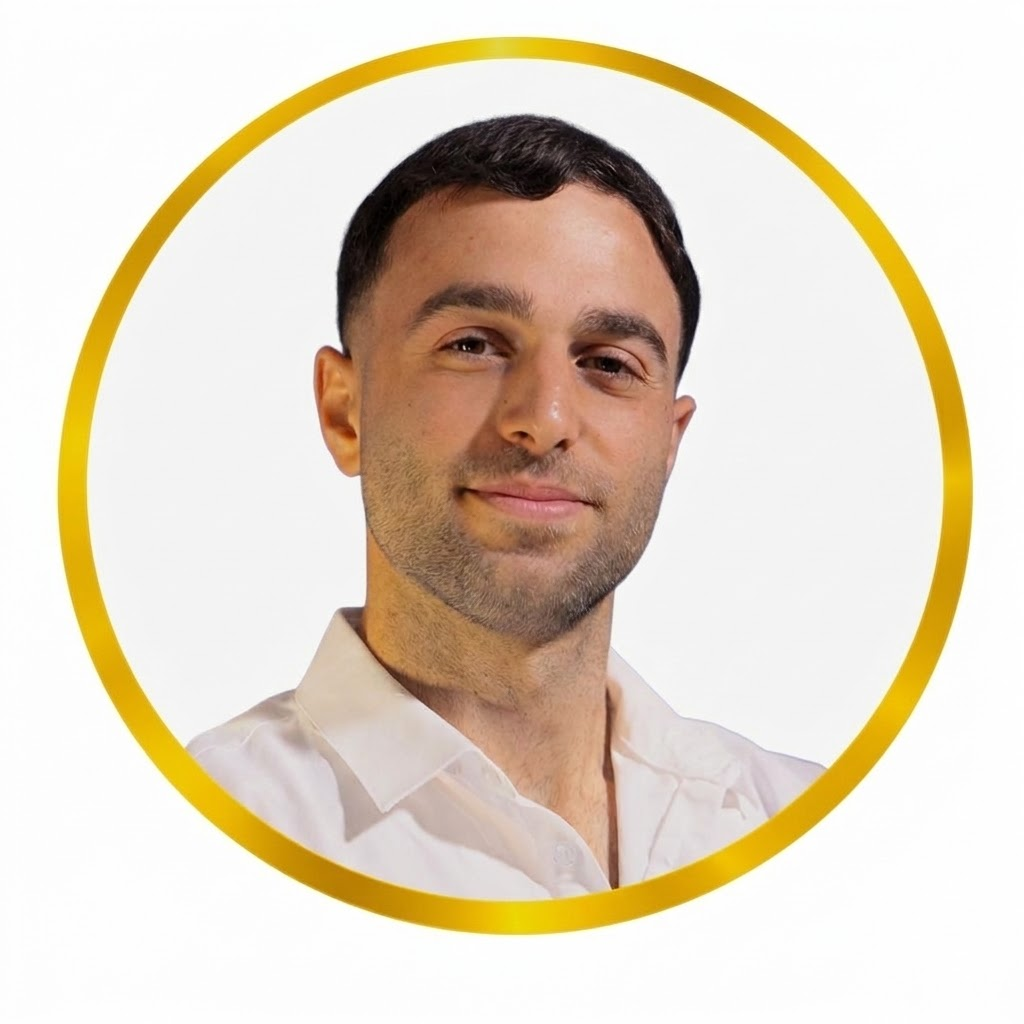
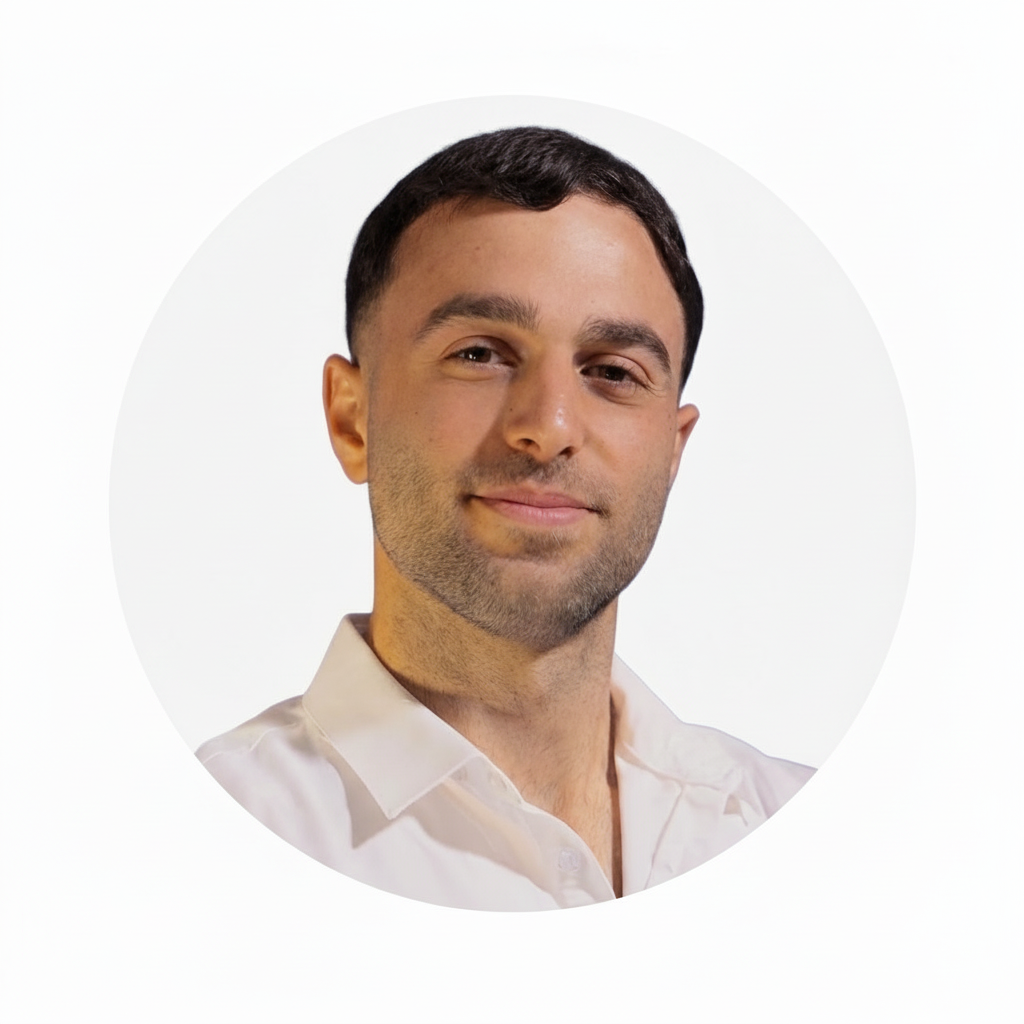
Remove gold ring around image

diff --git a/src/components/AboutSection.tsx b/src/components/AboutSection.tsx
@@ -13,7 +13,7 @@ export default function AboutSection() {
         <div className="flex flex-col md:flex-row-reverse items-center md:items-start gap-10">
           {/* Image */}
           <div className="shrink-0">
-            <div className="w-48 h-48 md:w-56 md:h-56 rounded-full overflow-hidden ring-4 ring-gold shadow-xl">
+            <div className="w-48 h-48 md:w-56 md:h-56 rounded-full overflow-hidden shadow-xl">
               <img
                 src={yuvalAbout}
                 alt="יובל כהן – יועץ משכנתאות"
